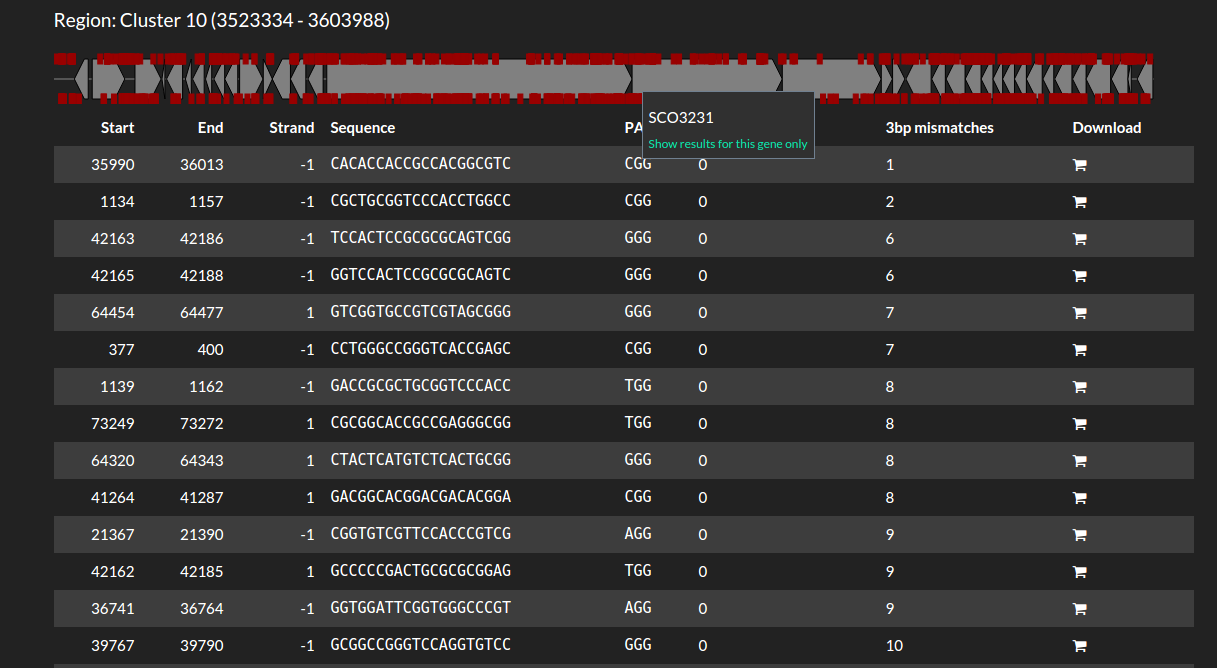
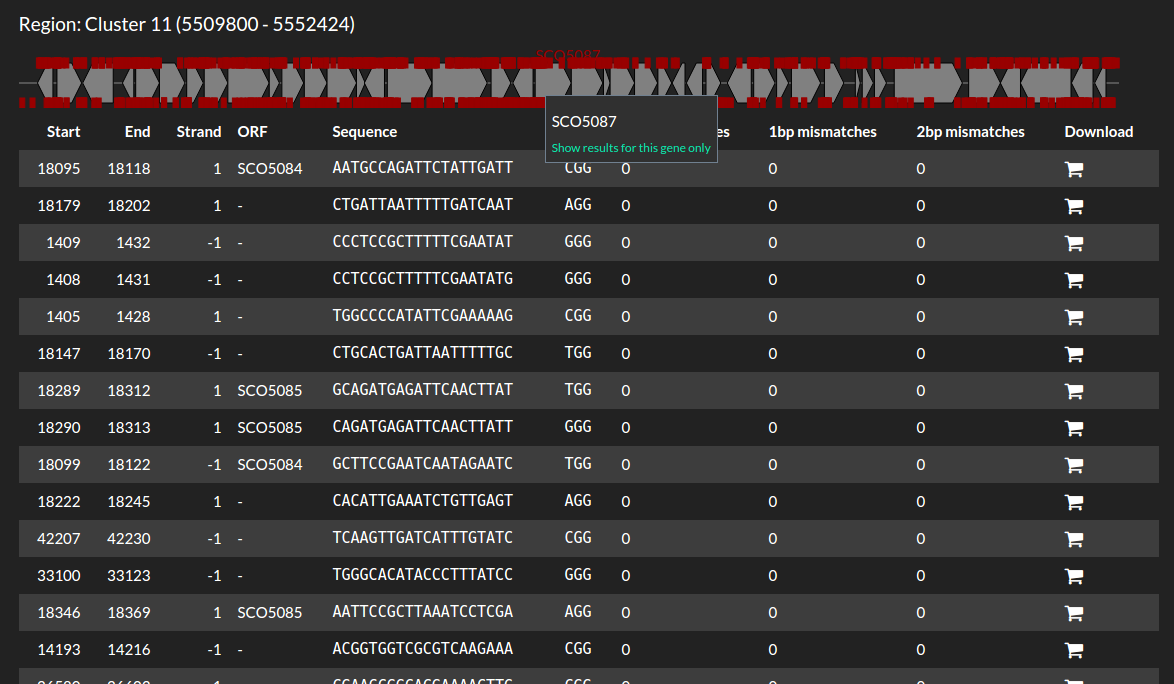
help: Update screenshots for new output tables

diff --git a/src/ui/app/help.html b/src/ui/app/help.html
@@ -38,8 +38,9 @@
   <div class="well well-sm">
     <img src="/images/help_gene_overview.png" class="img-responsive center-block" alt="sgRNA cluster overview">
   </div>
-  Both views list the up to 1000 best sgRNAs identified, sorted by 2 bp mismatch
-  off-target count, 3 bp mismatch off-target count and location on the genome.
+  Both views list the sgRNAs identified, sorted by 0 bp mismatch
+  off-target count, 1 bp mismatch off-target count, 2 bp mismatch off-target
+  count and location on the genome.
   Hovering over the table highlights the sgRNA box on the cluster visualisation,
   and vice versa.
   Clicking a table row adds the respective sgRNA to the download basket.
